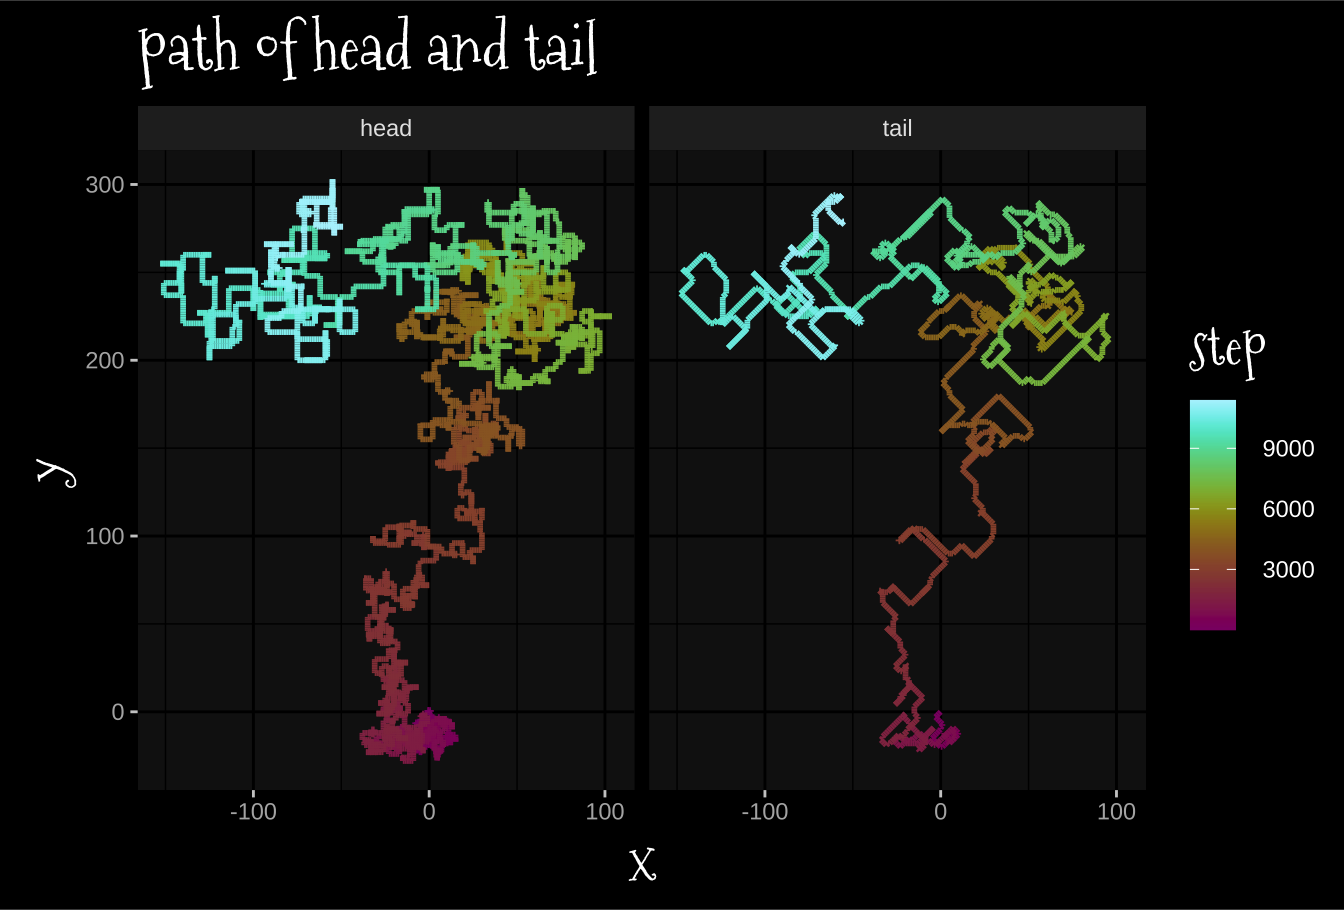
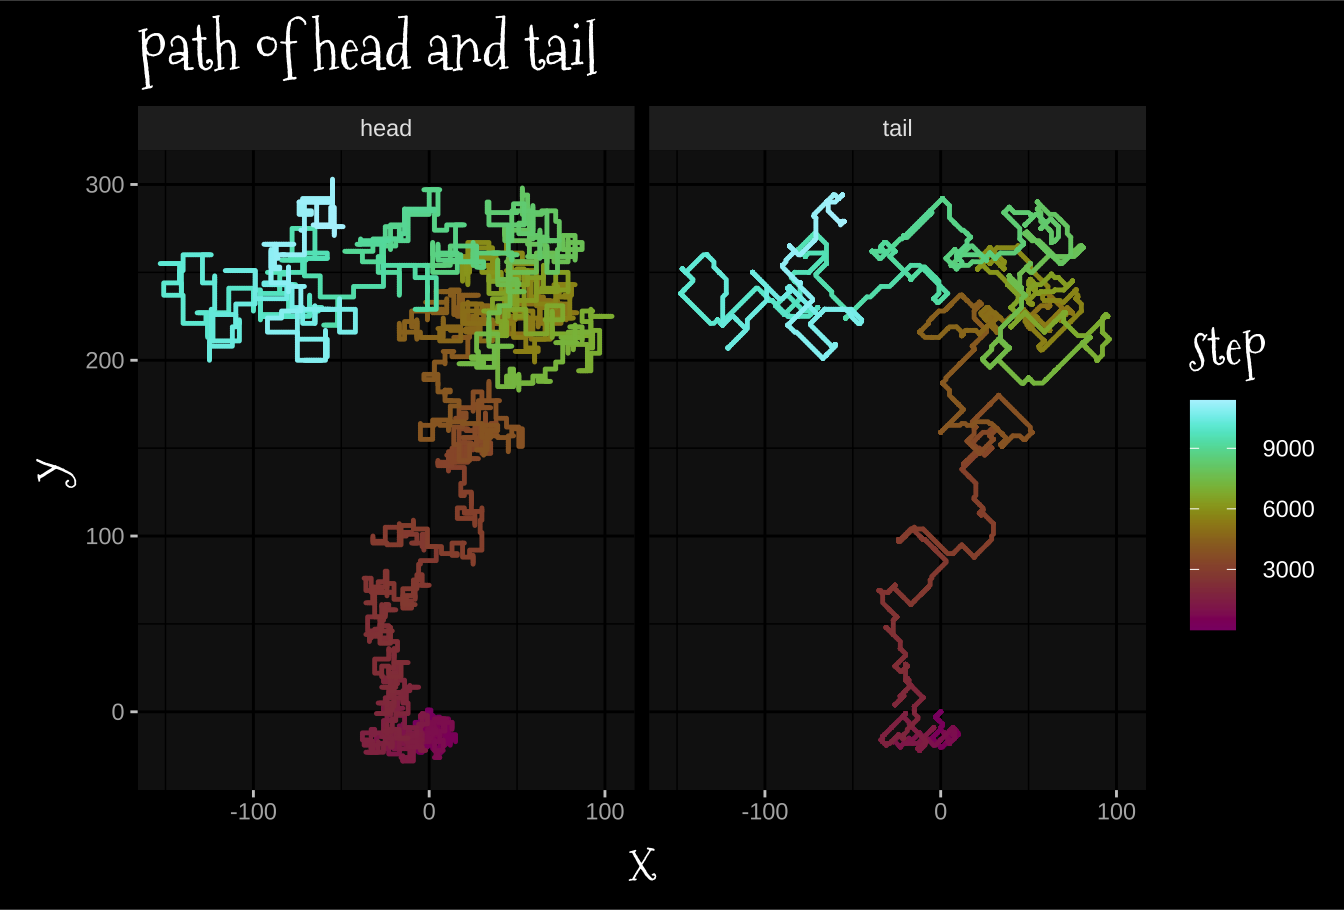
point update

diff --git a/docs/days/2022-12-9.html b/docs/days/2022-12-9.html
@@ -428,7 +428,7 @@ cols(
 <div class="cell" data-layout-align="center" data-crop="true">
 <div class="sourceCode cell-code" id="cb35"><pre class="sourceCode r code-with-copy"><code class="sourceCode r"><span id="cb35-1"><a href="#cb35-1" aria-hidden="true" tabindex="-1"></a>all_pos <span class="sc">|&gt;</span></span>
 <span id="cb35-2"><a href="#cb35-2" aria-hidden="true" tabindex="-1"></a>  <span class="fu">ggplot</span>(<span class="fu">aes</span>(X1, X2, <span class="at">color =</span> step)) <span class="sc">+</span></span>
-<span id="cb35-3"><a href="#cb35-3" aria-hidden="true" tabindex="-1"></a>    <span class="fu">geom_path</span>(<span class="at">linewidth =</span> <span class="dv">1</span>) <span class="sc">+</span></span>
+<span id="cb35-3"><a href="#cb35-3" aria-hidden="true" tabindex="-1"></a>    <span class="fu">geom_point</span>(<span class="at">size =</span> <span class="fl">0.2</span>) <span class="sc">+</span></span>
 <span id="cb35-4"><a href="#cb35-4" aria-hidden="true" tabindex="-1"></a>    <span class="fu">coord_fixed</span>()<span class="sc">+</span></span>
 <span id="cb35-5"><a href="#cb35-5" aria-hidden="true" tabindex="-1"></a>    <span class="fu">scale_color_hawaii</span>()<span class="sc">+</span></span>
 <span id="cb35-6"><a href="#cb35-6" aria-hidden="true" tabindex="-1"></a>    <span class="fu">labs</span>(<span class="at">x =</span> <span class="st">"x"</span>,</span>
@@ -505,7 +505,7 @@ cols(
 <div class="cell" data-crop="true">
 <div class="sourceCode cell-code" id="cb42"><pre class="sourceCode r code-with-copy"><code class="sourceCode r"><span id="cb42-1"><a href="#cb42-1" aria-hidden="true" tabindex="-1"></a>all_pos <span class="sc">|&gt;</span></span>
 <span id="cb42-2"><a href="#cb42-2" aria-hidden="true" tabindex="-1"></a>  <span class="fu">ggplot</span>(<span class="fu">aes</span>(X1, X2, <span class="at">color =</span> step)) <span class="sc">+</span></span>
-<span id="cb42-3"><a href="#cb42-3" aria-hidden="true" tabindex="-1"></a>    <span class="fu">geom_path</span>(<span class="at">linewidth =</span> <span class="dv">1</span>) <span class="sc">+</span></span>
+<span id="cb42-3"><a href="#cb42-3" aria-hidden="true" tabindex="-1"></a>    <span class="fu">geom_point</span>(<span class="at">size =</span> <span class="fl">0.2</span>) <span class="sc">+</span></span>
 <span id="cb42-4"><a href="#cb42-4" aria-hidden="true" tabindex="-1"></a>    <span class="fu">coord_fixed</span>()<span class="sc">+</span></span>
 <span id="cb42-5"><a href="#cb42-5" aria-hidden="true" tabindex="-1"></a>    <span class="fu">scale_color_hawaii</span>()<span class="sc">+</span></span>
 <span id="cb42-6"><a href="#cb42-6" aria-hidden="true" tabindex="-1"></a>    <span class="fu">labs</span>(<span class="at">x =</span> <span class="st">"x"</span>,</span>

diff --git a/docs/index.html b/docs/index.html
@@ -495,7 +495,7 @@ Josef Fruehwald
 </a>
 </div>
 </div>
-<div class="quarto-post image-right" data-index="8" data-categories="R,`list()`" data-listing-date-sort="1670562000000" data-listing-file-modified-sort="1670617804329" data-listing-reading-time-sort="3.965">
+<div class="quarto-post image-right" data-index="8" data-categories="R,`list()`" data-listing-date-sort="1670562000000" data-listing-file-modified-sort="1670620578609" data-listing-reading-time-sort="3.965">
 <div class="thumbnail">
 <p><a href="./days/2022-12-9.html"> <img src="./days/2022-12-9_files/figure-html/fig-path-1.png" class="thumnail-image"> </a></p>
 </div>
